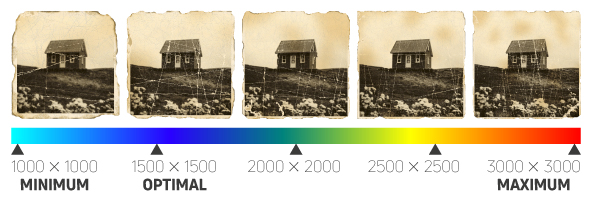
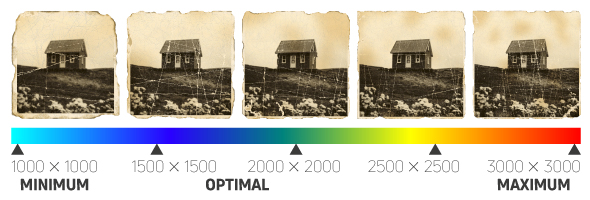
sizes

Changed region(s): [[0.2441, 0.87, 0.4576, 0.96]]

diff --git a/oldphoto/index.html b/oldphoto/index.html
@@ -73,10 +73,10 @@
 <li>Click and hide the image layer</li>
 <li>Go to the <strong>Actions Panel</strong> and play the OLDPHOTO action</li>
 <li>The action ends with a New Group masked containing the effects layers</li>
-<li>File size:<ul>
+<li>Preferred image sizes by pixels in width or height:<!--<ul>
 <li>Minimum: 1000 X 1000 px</li><li>
 Optimal: 1500 X 1500 px</li><li>
-Maximum: 3000 X 3000 px</li></ul>
+Maximum: 3000 X 3000 px</li></ul>--></li>
 </ul>
 <p><img src="https://raw.githubusercontent.com/akidaniel/almacen/gh-pages/oldphoto/images/sizes.jpg" alt="Sizes" style="margin: 0px 0;"></p>
 
